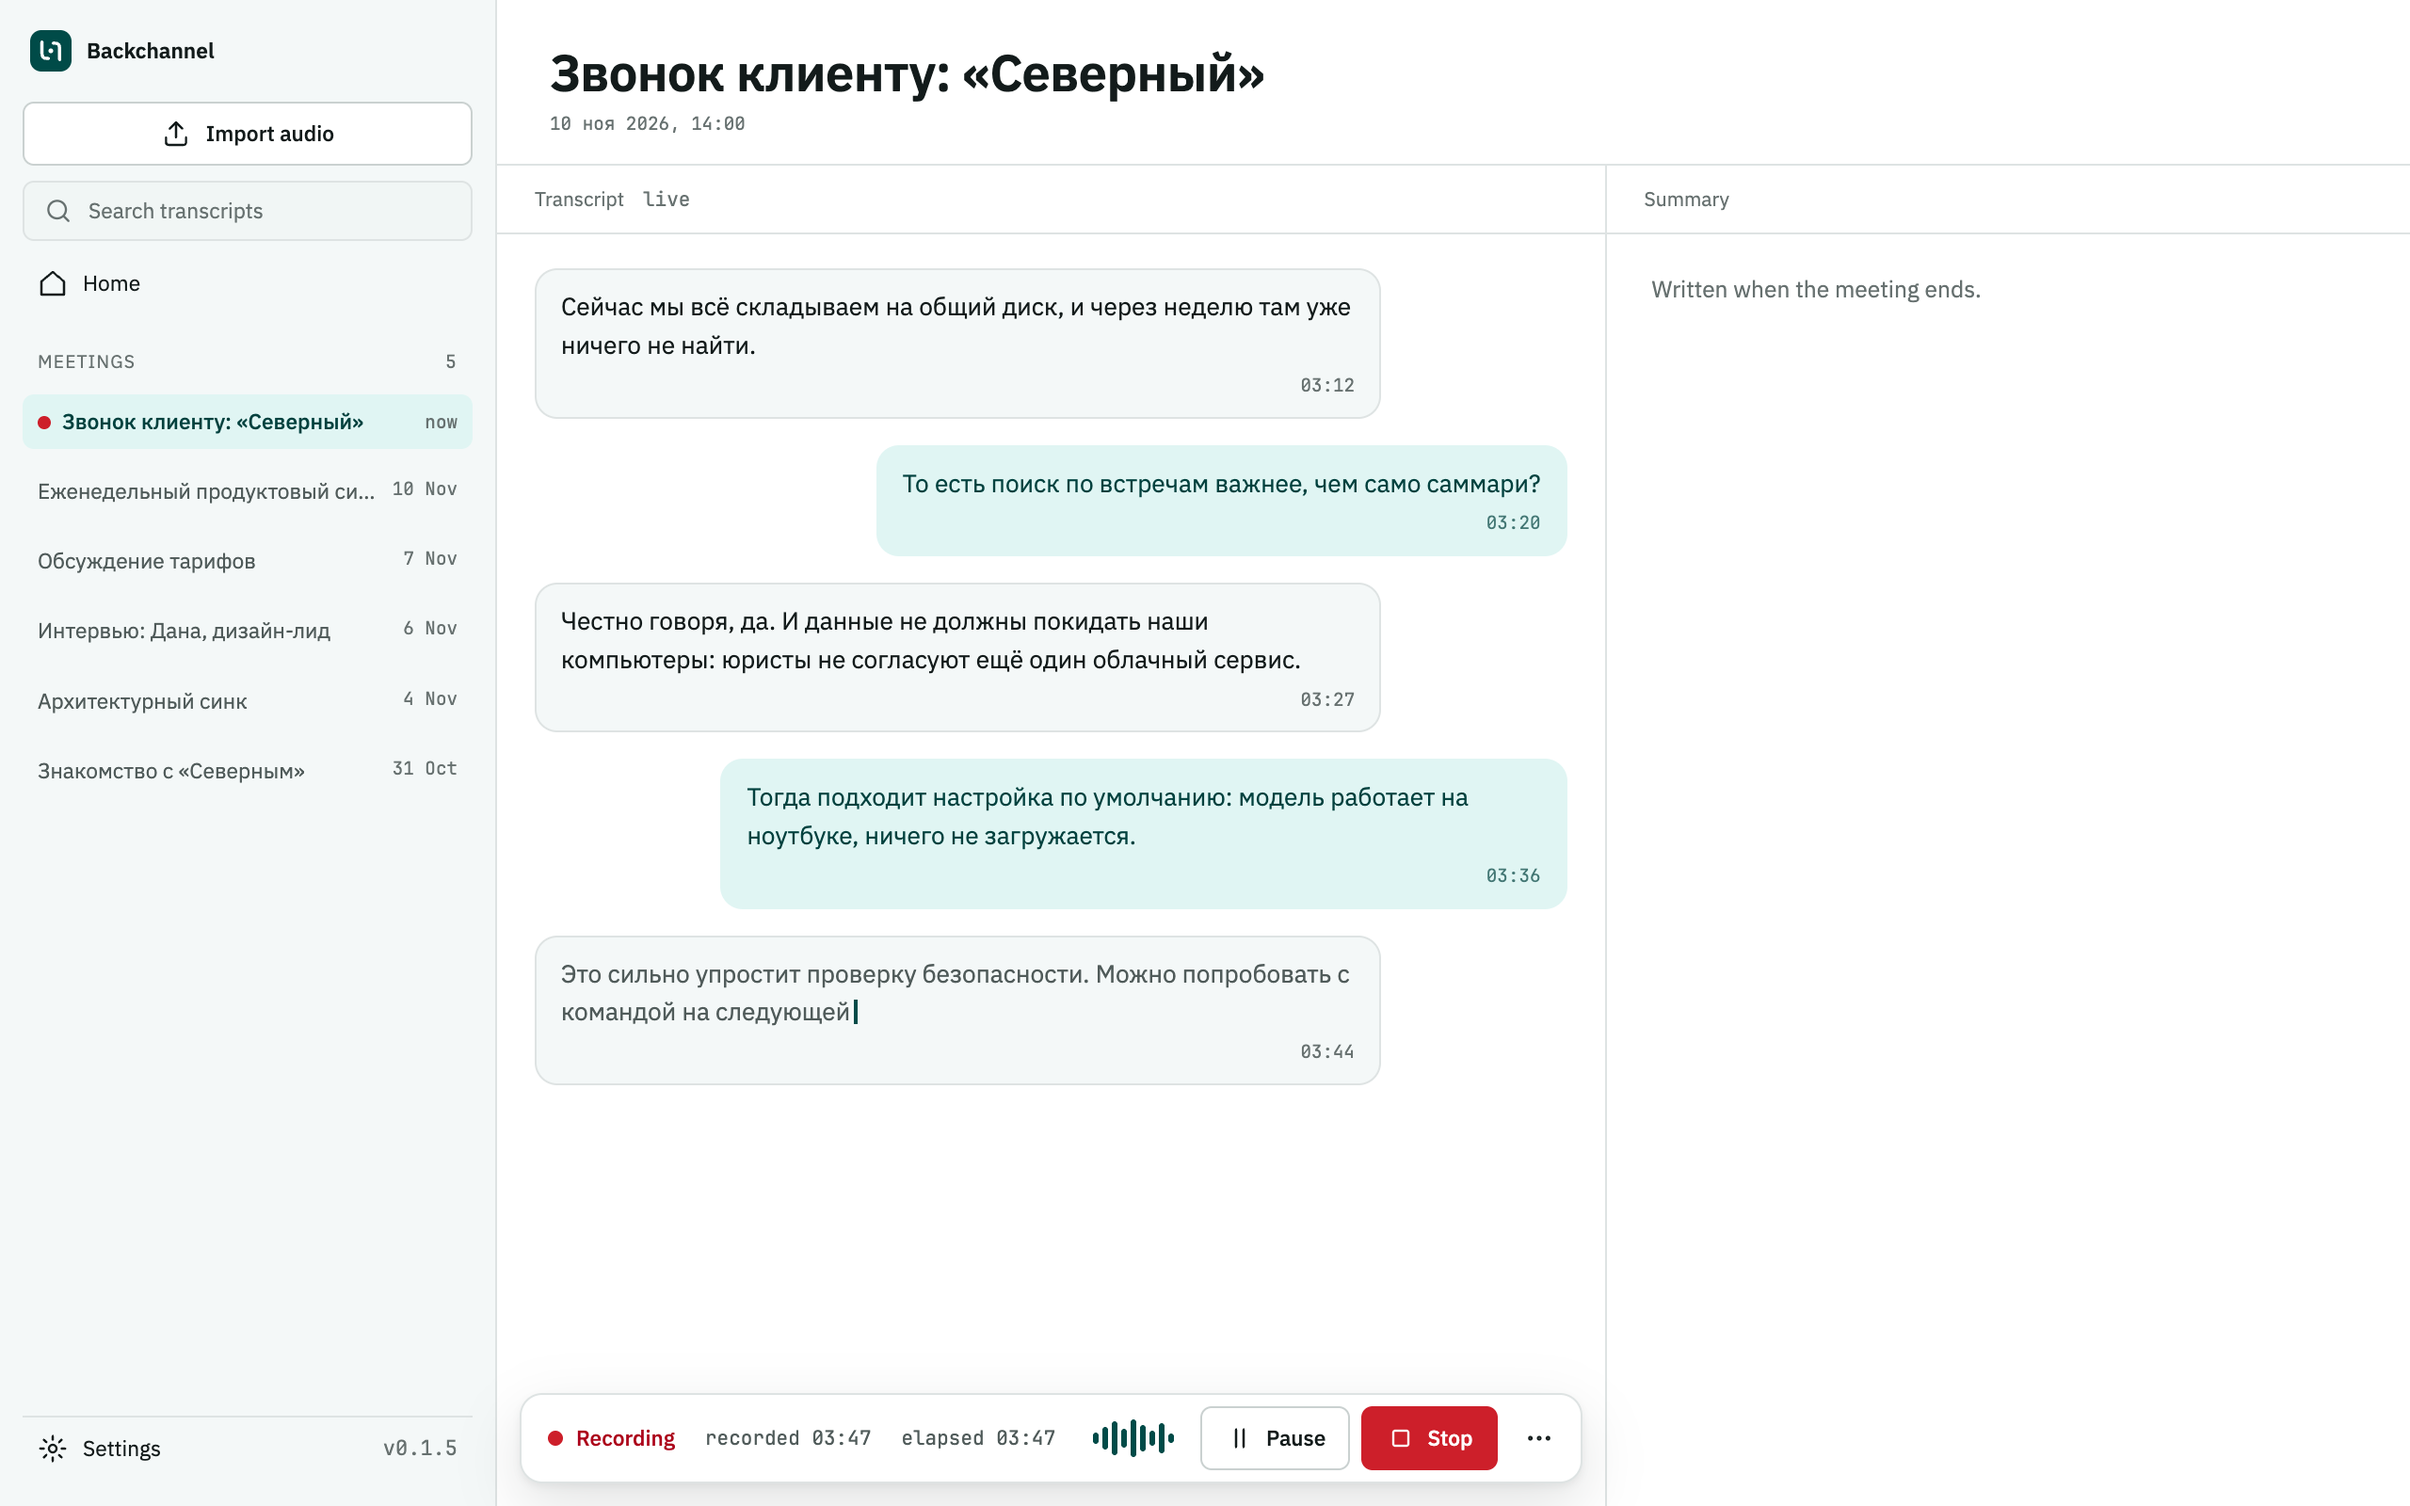
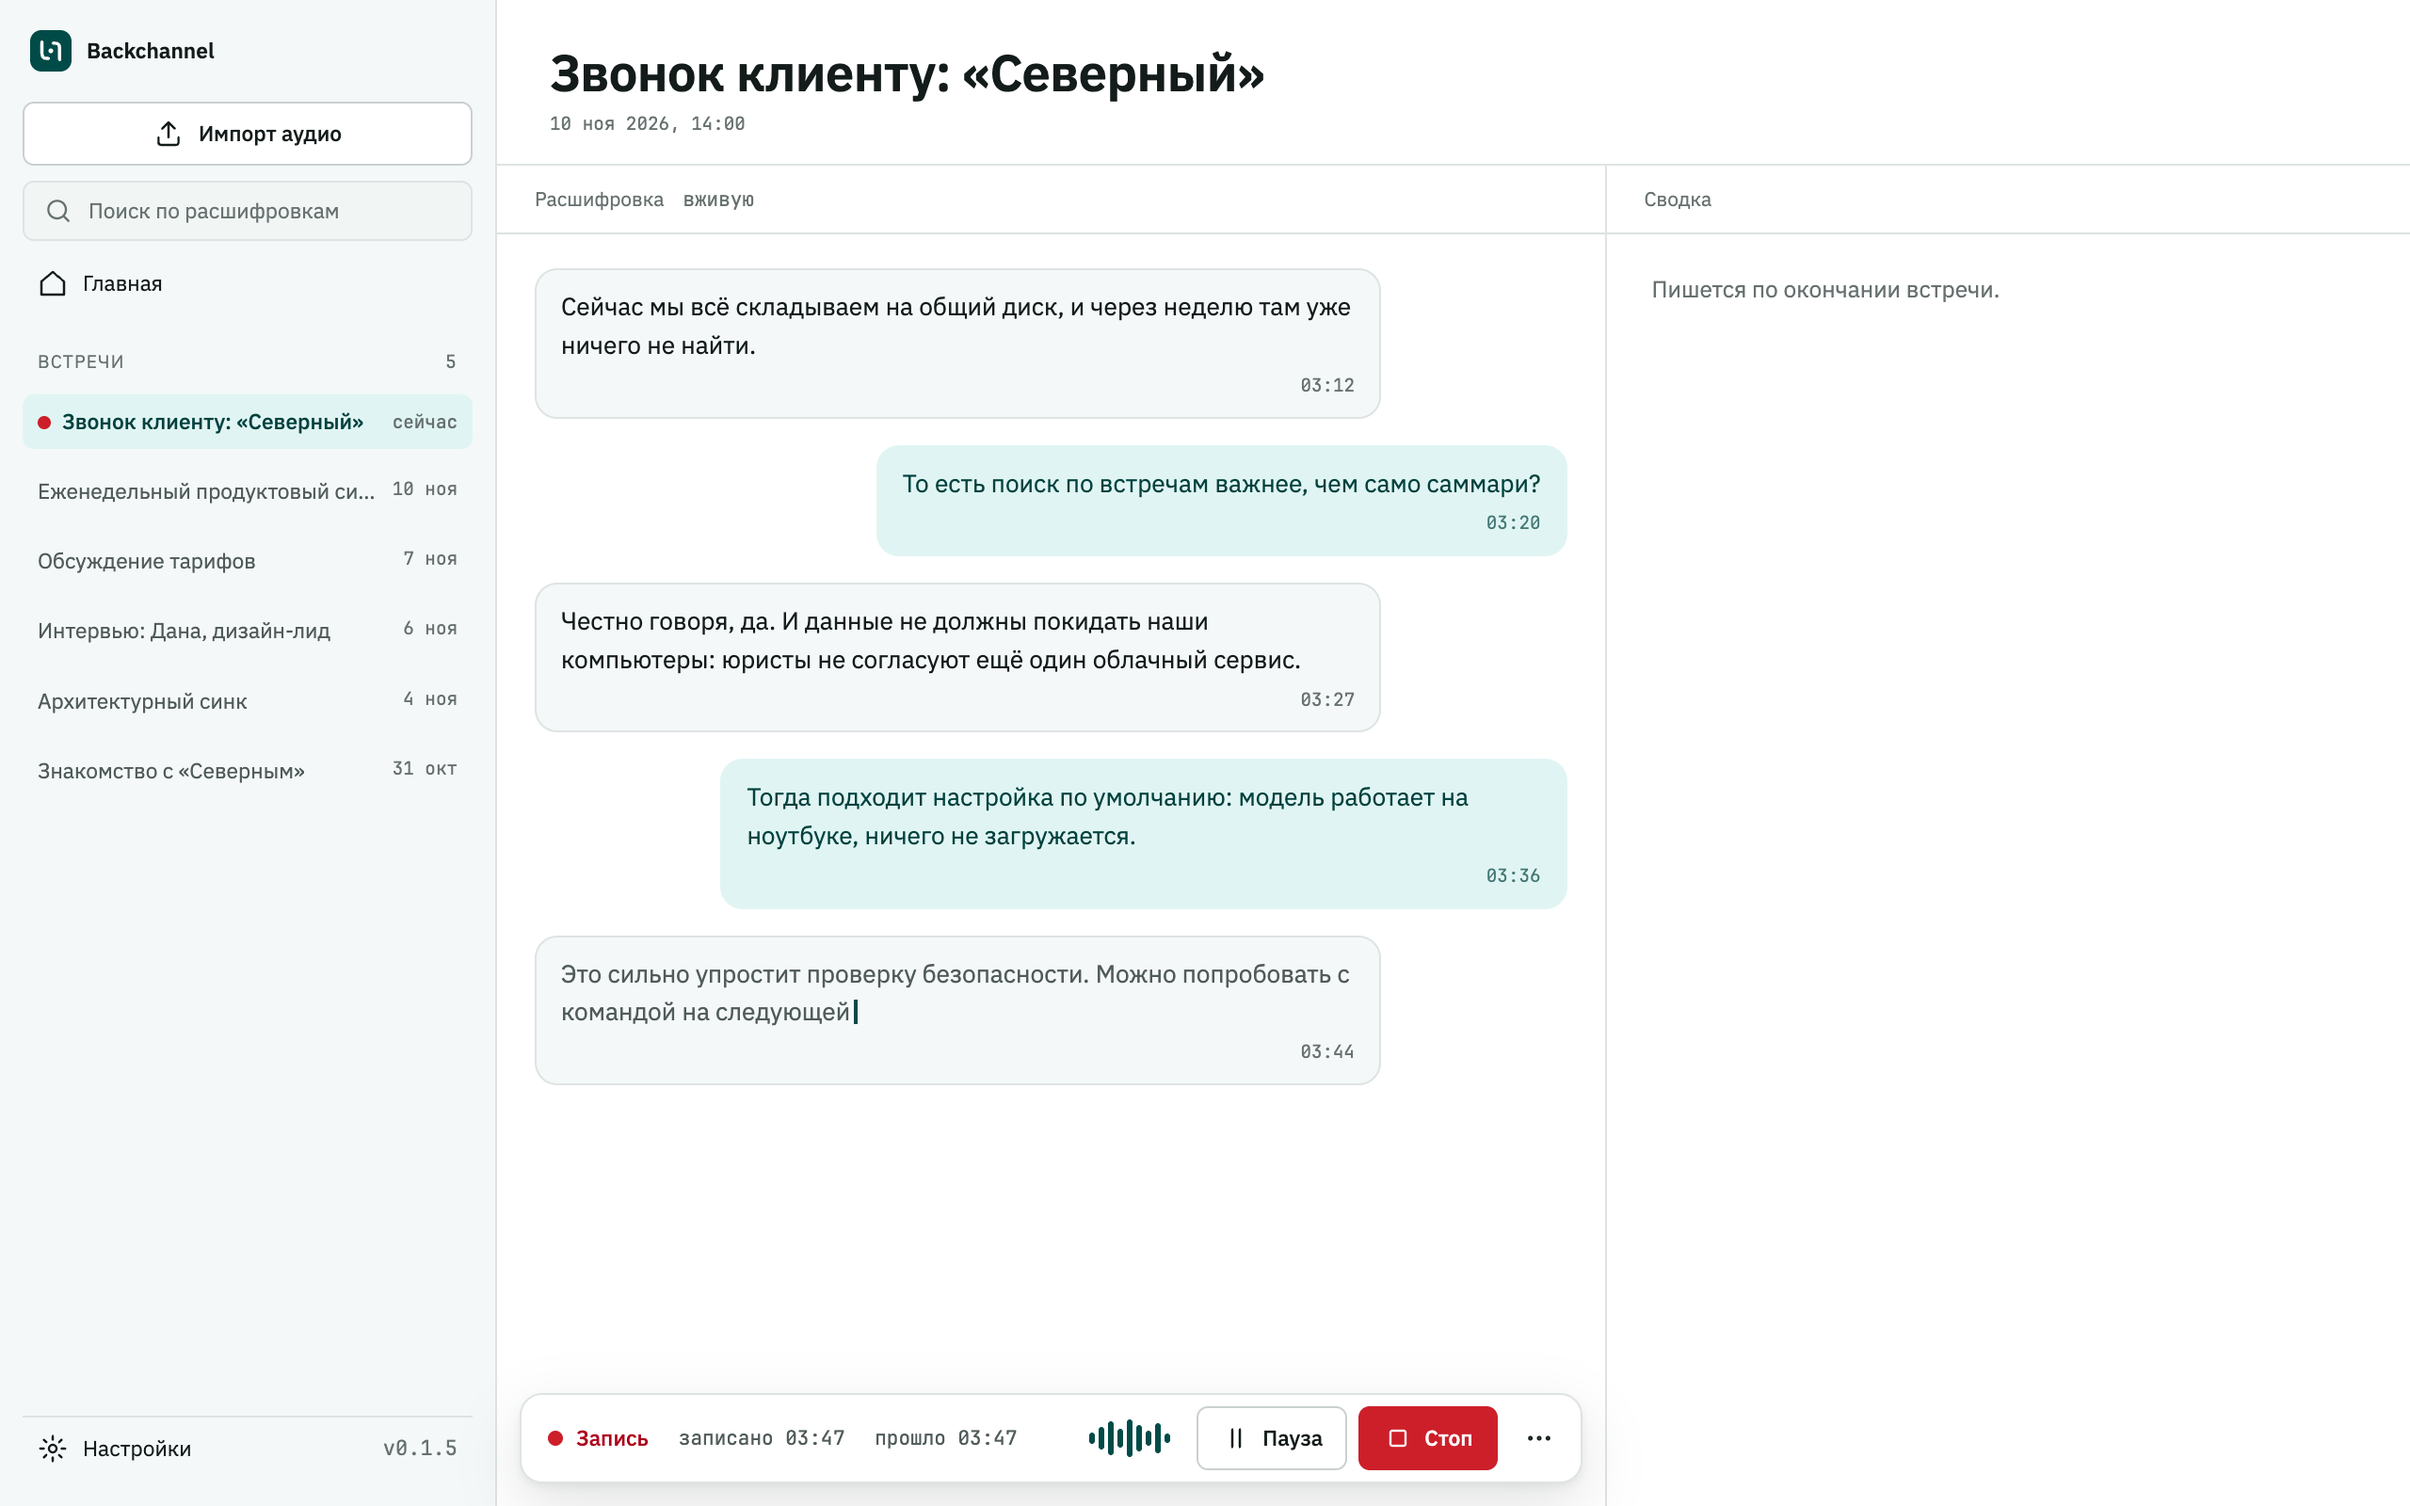
Backchannel page: contact by email, no open-source claims
The product is not offered as open source, so the hero and the third card no
longer say so; the card now says no account is needed. A contact section with
contact@madduck.tech replaces nothing on the site's side: there is no form,
since a static site has nothing to receive one. The Russian screenshots now
show the app's Russian interface, and the Russian copy says "сводка", the
app's own term, instead of "саммари".

diff --git a/_layouts/backchannel.html b/_layouts/backchannel.html
@@ -35,6 +35,7 @@
         <a class="logo" href="{{ page.url | relative_url }}"><span class="tile" aria-hidden="true"><svg><use href="#mark"/></svg></span>Backchannel</a>
         <a class="link" href="#tour">{{ t.nav_tour }}</a>
         <a class="link" href="#features">{{ t.nav_features }}</a>
+        <a class="btn primary" href="#contact">{{ t.nav_contact }}</a>
         <a class="lang" data-language-switch href="{{ page.alternate_url | relative_url }}" lang="{% if page.lang == 'en' %}ru{% else %}en{% endif %}" hreflang="{% if page.lang == 'en' %}ru{% else %}en{% endif %}" aria-label="{{ common.language_label }}">{{ common.language_short }}</a>
       </nav>
 
@@ -44,7 +45,7 @@
             <p class="badge"><i aria-hidden="true"></i>{{ t.badge }}</p>
             <h1>{{ t.hero_title }}</h1>
             <p>{{ t.hero_lead }}</p>
-            <div class="ctas"><a class="btn primary" href="#tour">{{ t.cta_tour }}</a><a class="btn" href="#features">{{ t.cta_features }}</a></div>
+            <div class="ctas"><a class="btn primary" href="#contact">{{ t.cta_contact }}</a><a class="btn" href="#tour">{{ t.cta_tour }}</a></div>
           </div>
           <div class="win"><div class="bar" aria-hidden="true"><i></i><i></i><i></i></div><img src="{{ shots | append: 'review.png' | relative_url }}" width="2560" height="1600" alt="{{ t.hero_alt | escape }}"></div>
         </header>
@@ -70,10 +71,15 @@
         <section class="grid3" id="features" aria-label="{{ t.nav_features }}">
           <div class="card"><div class="ic" aria-hidden="true"><svg viewBox="0 0 24 24"><rect x="5" y="11" width="14" height="10" rx="2"/><path d="M8 11V7a4 4 0 0 1 8 0v4"/></svg></div><h3>{{ t.card_local_title }}</h3><p>{{ t.card_local_text }}</p></div>
           <div class="card"><div class="ic" aria-hidden="true"><svg viewBox="0 0 24 24"><path d="M4 5h9M8.5 3v2M6 5c1 4 4 7 7 8M11 5c-1 4-4 7-7 8M13 21l4-9 4 9M14.5 18h5"/></svg></div><h3>{{ t.card_lang_title }}</h3><p>{{ t.card_lang_text }}</p></div>
-          <div class="card"><div class="ic" aria-hidden="true"><svg viewBox="0 0 24 24"><path d="M12 3v18M3 12h18"/></svg></div><h3>{{ t.card_free_title }}</h3><p>{{ t.card_free_text }}</p></div>
+          <div class="card"><div class="ic" aria-hidden="true"><svg viewBox="0 0 24 24"><circle cx="12" cy="8" r="4"/><path d="M4 21c1.5-4 4.5-6 8-6s6.5 2 8 6"/></svg></div><h3>{{ t.card_account_title }}</h3><p>{{ t.card_account_text }}</p></div>
+        </section>
+
+        <section class="contact" id="contact" aria-labelledby="contact-title">
+          <div><h2 id="contact-title">{{ t.contact_title }}</h2><p>{{ t.contact_text }}</p></div>
+          <div class="side"><a class="mail" href="mailto:contact@madduck.tech?subject={{ t.contact_subject | uri_escape }}">contact@madduck.tech</a><a class="btn primary" href="mailto:contact@madduck.tech?subject={{ t.contact_subject | uri_escape }}">{{ t.contact_button }}</a></div>
         </section>
       </main>
     </div>
-    <footer><div class="wrap"><a href="{% if page.lang == 'en' %}{{ '/en/' | relative_url }}{% else %}{{ '/' | relative_url }}{% endif %}">{{ t.footer }}</a></div></footer>
+    <footer><div class="wrap"><a href="{% if page.lang == 'en' %}{{ '/en/' | relative_url }}{% else %}{{ '/' | relative_url }}{% endif %}">{{ t.footer }}</a><a href="mailto:contact@madduck.tech">contact@madduck.tech</a></div></footer>
   </body>
 </html>

diff --git a/assets/backchannel/landing.css b/assets/backchannel/landing.css
@@ -69,6 +69,17 @@ p{text-wrap:pretty}
 .card .ic{width:36px;height:36px;border-radius:9px;background:var(--accent-soft);color:var(--accent-soft-on);display:grid;place-items:center}
 .card .ic svg{width:18px;height:18px;fill:none;stroke:currentColor;stroke-width:1.75;stroke-linecap:round;stroke-linejoin:round}
 
+/* contact: a mail link only, no form (a static site has nothing to receive one) */
+.nav .btn{height:36px;padding:0 14px;font-size:14px}
+.contact{border:1px solid var(--border);border-radius:16px;padding:56px;margin-bottom:120px;display:grid;grid-template-columns:1fr 1fr;gap:48px;align-items:center;scroll-margin-top:24px}
+.contact h2{font-size:36px;line-height:1.15;margin-bottom:14px}
+.contact p{color:var(--muted)}
+.contact .side{border-left:1px solid var(--border);padding-left:48px}
+.contact .mail{display:block;font:500 22px var(--font-mono);margin-bottom:20px;overflow-wrap:anywhere}
+.contact .mail:hover{color:var(--accent)}
+
+footer .wrap{display:flex;gap:24px;flex-wrap:wrap}
+footer .wrap a:first-child{margin-right:auto}
 footer{border-top:1px solid var(--border);padding:32px 0 48px;font-size:14px;color:var(--meta)}
 footer a:hover{color:var(--fg)}
 
@@ -79,4 +90,6 @@ footer a:hover{color:var(--fg)}
   .hero{grid-template-columns:1fr;padding:40px 0 72px}.hero h1{font-size:36px}.hero .win{width:100%}
   .grid3{grid-template-columns:1fr}
   .tour h2{font-size:30px}
+  .contact{grid-template-columns:1fr;padding:28px;gap:28px}.contact h2{font-size:28px}
+  .contact .side{border-left:0;padding-left:0;border-top:1px solid var(--border);padding-top:28px}
 }
